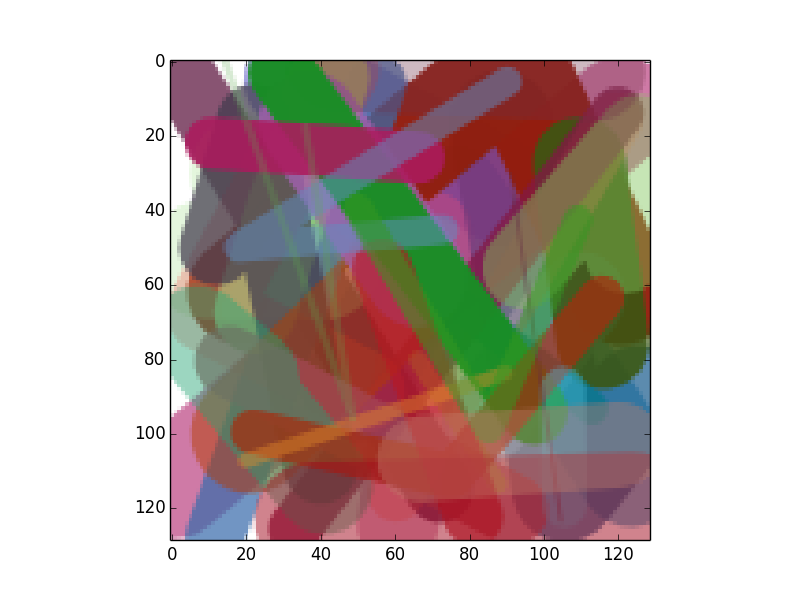
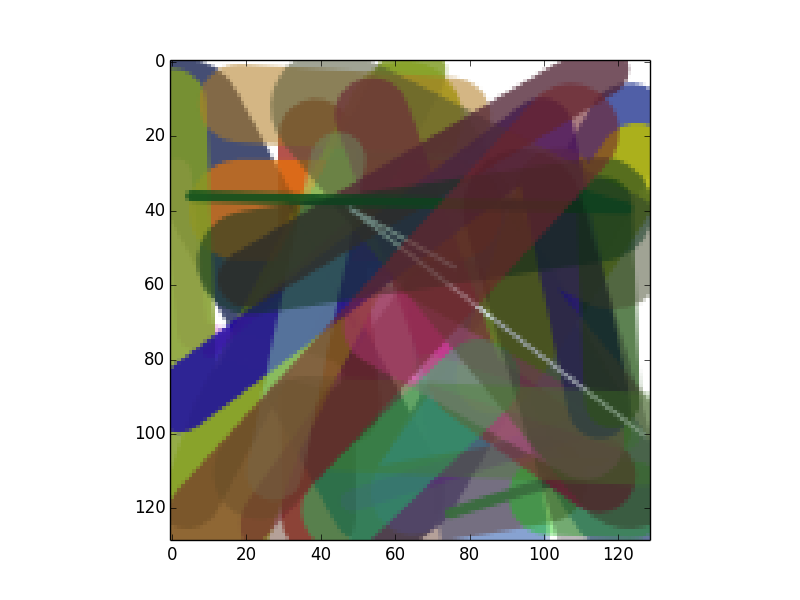
pictures included

diff --git a/latex/project-report.tex b/latex/project-report.tex
@@ -452,24 +452,21 @@ stuff
 
 \section{Results}
 \subsection{Minimal Supervision}
-\[ \includegraphics[scale=0.22]{../figure_1.png} \includegraphics[scale=0.20]{../figure_2.png} \]
-Here, we have two results for running our 
-
 \begin{figure*}[!htb]
 \begin{center}
-\includegraphics[width=2in]{./img/lena256.png}\qquad
-\includegraphics[width=2in]{./img/lenaLI_0.png}\qquad
-\includegraphics[width=2in]{./img/lenaLI_25.png}\\
-\includegraphics[width=2in]{./img/lenaLI_50.png}\qquad
-\includegraphics[width=2in]{./img/lenaLI_100.png}\qquad
-\includegraphics[width=2in]{./img/lenaLI_200.png}\\
-\includegraphics[width=2in]{./img/lenaLI_400.png}\qquad
-\includegraphics[width=2in]{./img/lenaLI_800.png}\qquad
-\includegraphics[width=2in]{./img/lenaLI_1600.png}\\
-\includegraphics[width=2in]{./img/lenaLI_3200.png}\qquad
-\includegraphics[width=2in]{./img/lenaLI_6400.png}\qquad
-\includegraphics[width=2in]{./img/lenaLI_7050.png}\\
-\caption{PDE image interpolation using linear isotropic diffusion. Image lena256.png (top left) is compressed using BTTC with $\epsilon = 0.2$ to $\approx 13.5\%$ of the total pixel count (top middle).  The image interpolation then evolves and is plotted at 10 iterations $k=\{25,50,100,200,400,800,1600,3200,6400,7050\}$.  These time steps are displayed starting from the top right.  The stability threshold for the algorithm is reached after 7050 iterations, so the bottom left picture gives the final result. The three diffusion methods have a similar convergence path, although the convergence speeds vary.}
+\includegraphics[width=2in]{../groupB/M-1.png}\qquad
+\includegraphics[width=2in]{../groupB/M-200.png}\qquad
+\includegraphics[width=2in]{../groupB/M-424.png}\\
+\includegraphics[width=2in]{../groupB/M-1155.png}\qquad
+\includegraphics[width=2in]{../groupB/M-2826.png}\qquad
+\includegraphics[width=2in]{../groupB/M-3566.png}\\
+\includegraphics[width=2in]{../groupB/M-11910.png}\qquad
+\includegraphics[width=2in]{../groupB/M-14557.png}\qquad
+\includegraphics[width=2in]{../groupB/M-16996.png}\\
+\includegraphics[width=2in]{../groupB/M-21048.png}\qquad
+\includegraphics[width=2in]{../groupB/M-37608.png}\qquad
+\includegraphics[width=2in]{../groupB/M-42066.png}\\
+\caption{Here we have our unsupervised learning genetic algorithm running on the original Mona Lisa image.}
 \label{evolutionfig}
 \end{center}
 \end{figure*}
@@ -477,19 +474,61 @@ Here, we have two results for running our
 \pagebreak
 \begin{figure*}[!htb]
 \begin{center}
-\includegraphics[width=2in]{./img/lena256.png}\qquad
-\includegraphics[width=2in]{./img/lenaLI_0.png}\qquad
-\includegraphics[width=2in]{./img/lenaLI_25.png}\\
-\includegraphics[width=2in]{./img/lenaLI_50.png}\qquad
-\includegraphics[width=2in]{./img/lenaLI_100.png}\qquad
-\includegraphics[width=2in]{./img/lenaLI_200.png}\\
-\includegraphics[width=2in]{./img/lenaLI_400.png}\qquad
-\includegraphics[width=2in]{./img/lenaLI_800.png}\qquad
-\includegraphics[width=2in]{./img/lenaLI_1600.png}\\
-\includegraphics[width=2in]{./img/lenaLI_3200.png}\qquad
-\includegraphics[width=2in]{./img/lenaLI_6400.png}\qquad
-\includegraphics[width=2in]{./img/lenaLI_7050.png}\\
-\caption{PDE image interpolation using linear isotropic diffusion. Image lena256.png (top left) is compressed using BTTC with $\epsilon = 0.2$ to $\approx 13.5\%$ of the total pixel count (top middle).  The image interpolation then evolves and is plotted at 10 iterations $k=\{25,50,100,200,400,800,1600,3200,6400,7050\}$.  These time steps are displayed starting from the top right.  The stability threshold for the algorithm is reached after 7050 iterations, so the bottom left picture gives the final result. The three diffusion methods have a similar convergence path, although the convergence speeds vary.}
+\includegraphics[width=2in]{../groupB/P-1.png}\qquad
+\includegraphics[width=2in]{../groupB/P-28.png}\qquad
+\includegraphics[width=2in]{../groupB/P-117.png}\\
+\includegraphics[width=2in]{../groupB/P-192.png}\qquad
+\includegraphics[width=2in]{../groupB/P-286.png}\qquad
+\includegraphics[width=2in]{../groupB/P-412.png}\\
+\includegraphics[width=2in]{../groupB/P-1193.png}\qquad
+\includegraphics[width=2in]{../groupB/P-2250.png}\qquad
+\includegraphics[width=2in]{../groupB/P-3844.png}\\
+\includegraphics[width=2in]{../groupB/P-10679.png}\qquad
+\includegraphics[width=2in]{../groupB/P-39473.png}\qquad
+\includegraphics[width=2in]{../groupB/P-42159.png}\\
+\caption{Similar to before, we have the supervised learning genetic algorithm running on our Picasso.}
+\label{evolutionfig}
+\end{center}
+\end{figure*}
+
+
+\subsection{Maximal Supervision}
+
+\begin{figure*}[!htb]
+\begin{center}
+\includegraphics[width=2in]{../groupA/M-102.png}\qquad
+\includegraphics[width=2in]{../groupA/M-156.png}\qquad
+\includegraphics[width=2in]{../groupA/M-288.png}\\
+\includegraphics[width=2in]{../groupA/M-427.png}\qquad
+\includegraphics[width=2in]{../groupA/M-515.png}\qquad
+\includegraphics[width=2in]{../groupA/M-1161.png}\\
+\includegraphics[width=2in]{../groupA/M-1813.png}\qquad
+\includegraphics[width=2in]{../groupA/M-3178.png}\qquad
+\includegraphics[width=2in]{../groupA/M-4578.png}\\
+\includegraphics[width=2in]{../groupA/M-14630.png}\qquad
+\includegraphics[width=2in]{../groupA/M-35131.png}\qquad
+\includegraphics[width=2in]{../groupA/M-36522.png}\\
+\caption{Here we have our supervised learning genetic algorithm running on the original Mona Lisa image.}
+\label{evolutionfig}
+\end{center}
+\end{figure*}
+
+\pagebreak
+\begin{figure*}[!htb]
+\begin{center}
+\includegraphics[width=2in]{../groupA/P-126.png}\qquad
+\includegraphics[width=2in]{../groupA/P-199.png}\qquad
+\includegraphics[width=2in]{../groupA/P-629.png}\\
+\includegraphics[width=2in]{../groupA/P-1416.png}\qquad
+\includegraphics[width=2in]{../groupA/P-1889.png}\qquad
+\includegraphics[width=2in]{../groupA/P-3921.png}\\
+\includegraphics[width=2in]{../groupA/P-4321.png}\qquad
+\includegraphics[width=2in]{../groupA/P-6558.png}\qquad
+\includegraphics[width=2in]{../groupA/P-7792.png}\\
+\includegraphics[width=2in]{../groupA/P-8391.png}\qquad
+\includegraphics[width=2in]{../groupA/P-14741.png}\qquad
+\includegraphics[width=2in]{../groupA/P-49320.png}\\
+\caption{Similar to before, we have the supervised learning genetic algorithm running on our Picasso.}
 \label{evolutionfig}
 \end{center}
 \end{figure*}

diff --git a/genepainter.py b/genepainter.py
@@ -434,85 +434,7 @@ if __name__ == "__main__":
 
     # dump_dna(DNAImage((a,b)).strokes)
 
-    files = [
-            'original 2-00.332583054239.txt',
-            'original 2-00.335408792734.txt',
-            'original 4-00.2780528617.txt',
-            'original 4-00.44655414198.txt',
-            'original 5-00.122783417801.txt',
-            'original 5-00.425307710567.txt',
-            'original 10-00.362482372671.txt',
-            'original 10-00.815099764983.txt',
-            'original 21-00.918623730954.txt',
-            'original 22-00.362341453642.txt',
-            'original 29-00.931912632865.txt',
-            'original 30-00.245002748557.txt',
-            'original 30-00.935829493843.txt',
-            'original 50-00.5295259206.txt',
-            'original 50-00.227976608302.txt',
-            'original 72-00.7903701926.txt',
-            'original 80-00.464642260474.txt',
-            'original 84-00.969461533804.txt',
-            'original 86-00.228553026805.txt',
-            'original 100-00.286420714599.txt',
-            'original 107-00.0916597171612.txt',
-            'original 154-00.738719125809.txt',
-            'original 170-00.962676971276.txt',
-            'original 203-00.504767517558.txt',
-            'original 228-00.940635504154.txt',
-            'original 245-00.170706845088.txt',
-            'original 262-00.696481054397.txt',
-            'original 276-00.965563246506.txt',
-            'original 301-00.252354715948.txt',
-            'original 352-00.490410430434.txt',
-            'original 402-00.464733497456.txt',
-            'original 510-00.5590586442.txt',
-            'original 625-00.0572837629219.txt',
-            'original 737-00.941838909794.txt',
-            'original 857-00.883552505651.txt',
-            'original 964-00.349634035064.txt',
-            'original 1021-00.746543020087.txt',
-            'original 1100-00.0730107373312.txt',
-            'original 1263-00.279881829294.txt',
-            'original 1363-00.284395160092.txt',
-            'original 1401-00.470652535631.txt',
-            'original 1525-00.204626912415.txt',
-            'original 1604-00.808284127323.txt',
-            'original 1665-00.11861257823.txt',
-            'original 1850-00.837506694489.txt',
-            'original 1931-00.849566564901.txt',
-            'original 1992-00.475795697596.txt',
-            'original 2508-00.996082572991.txt',
-            'original 5226-00.95610069288.txt',
-            'original 5922-00.488902211764.txt',
-            'original 6602-00.115022659561.txt',
-            'original 7057-00.400067879808.txt',
-            'original 8014-00.569516778873.txt',
-            'original 8408-00.561766866651.txt',
-            'original 10268-00.0194648360162.txt',
-            'original 12426-00.119837755698.txt',
-            'original 15130-00.0746400399838.txt',
-            'original 17089-00.603551683287.txt',
-            'original 24632-00.728961607335.txt',
-            'original 28215-00.410648436287.txt',
-            'original 30034-00.817678589609.txt',
-            'original 33967-00.312255133125.txt',
-            'original 35631-00.806513633943.txt',
-            'original 37479-00.689369211118.txt',
-            'original 38672-00.746769833052.txt',
-            'original 42099-00.996372443341.txt',
-            'original 44778-00.689998922451.txt',
-            'original 45812-00.921531355528.txt',
-            'original 46057-00.22735750397.txt',
-
-
-
-
-
-
-
-
-            ]
+    
 
     for filename in files:
         iteration = filename.split(' ')[1].split('-')[0]
@@ -526,6 +448,8 @@ if __name__ == "__main__":
             append = "M"
 
         dna = DNAImage(shape, strokes)
+
+
         plt.imshow(dna.render(), interpolation='none')
         #plt.show()
-        plt.savefig('groupB/' + str(append) + '-' + str(iteration) + '.png')
+        plt.savefig('groupB/' + str(append) + '-' + str(iteration) + '.png', bbox_inches='tight')
